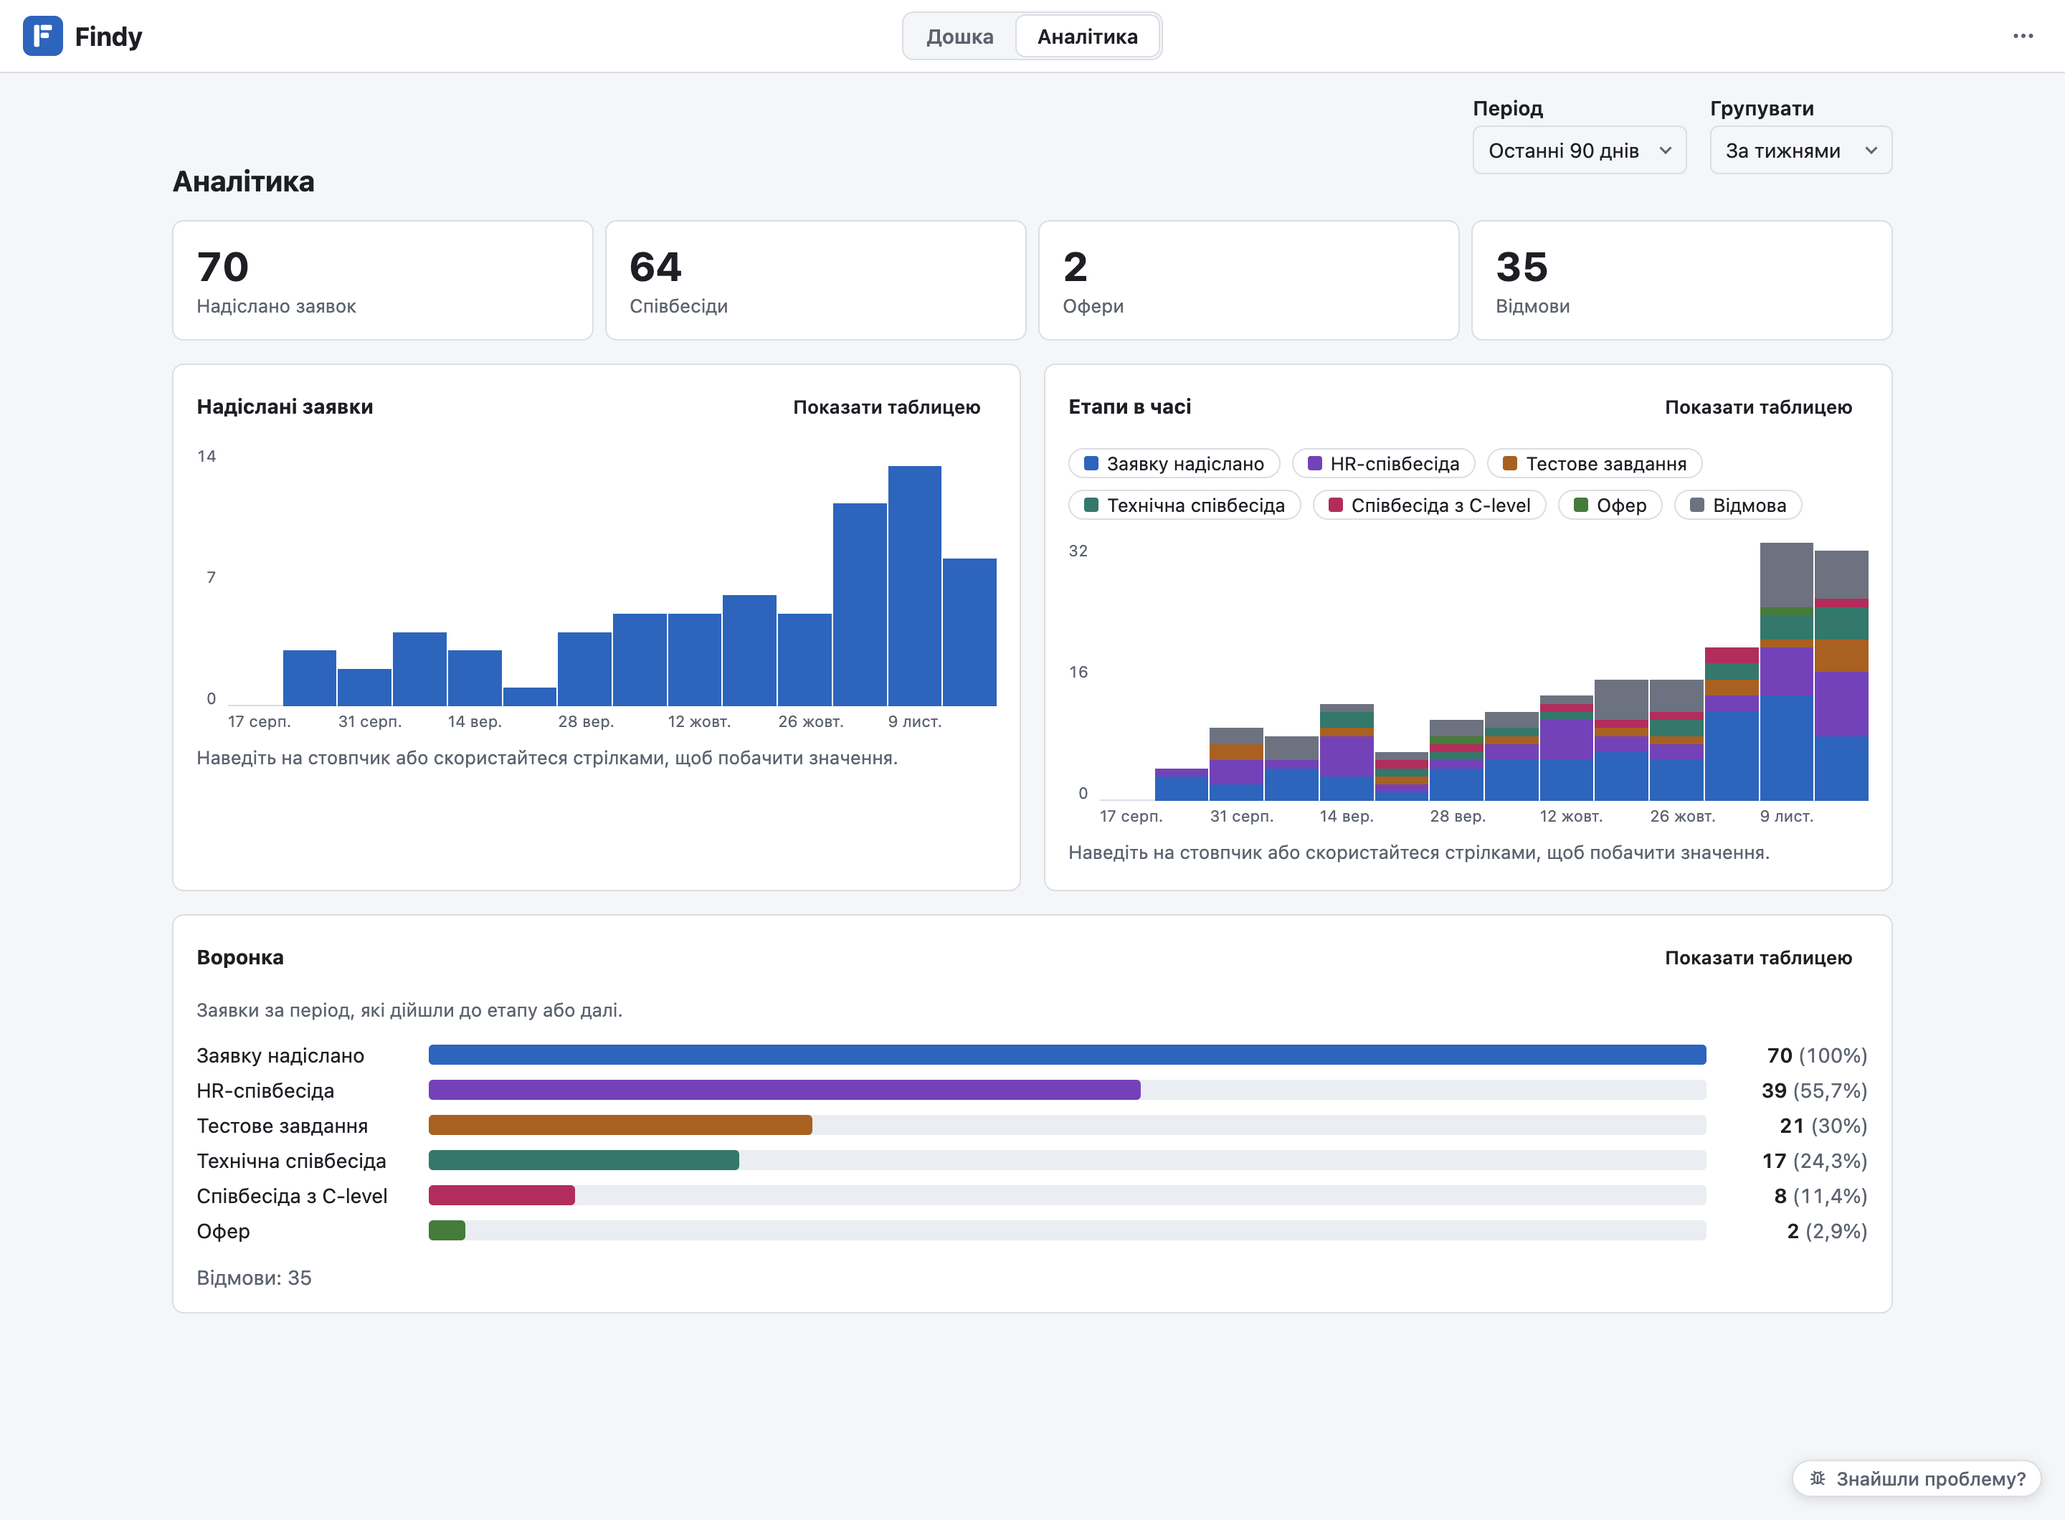
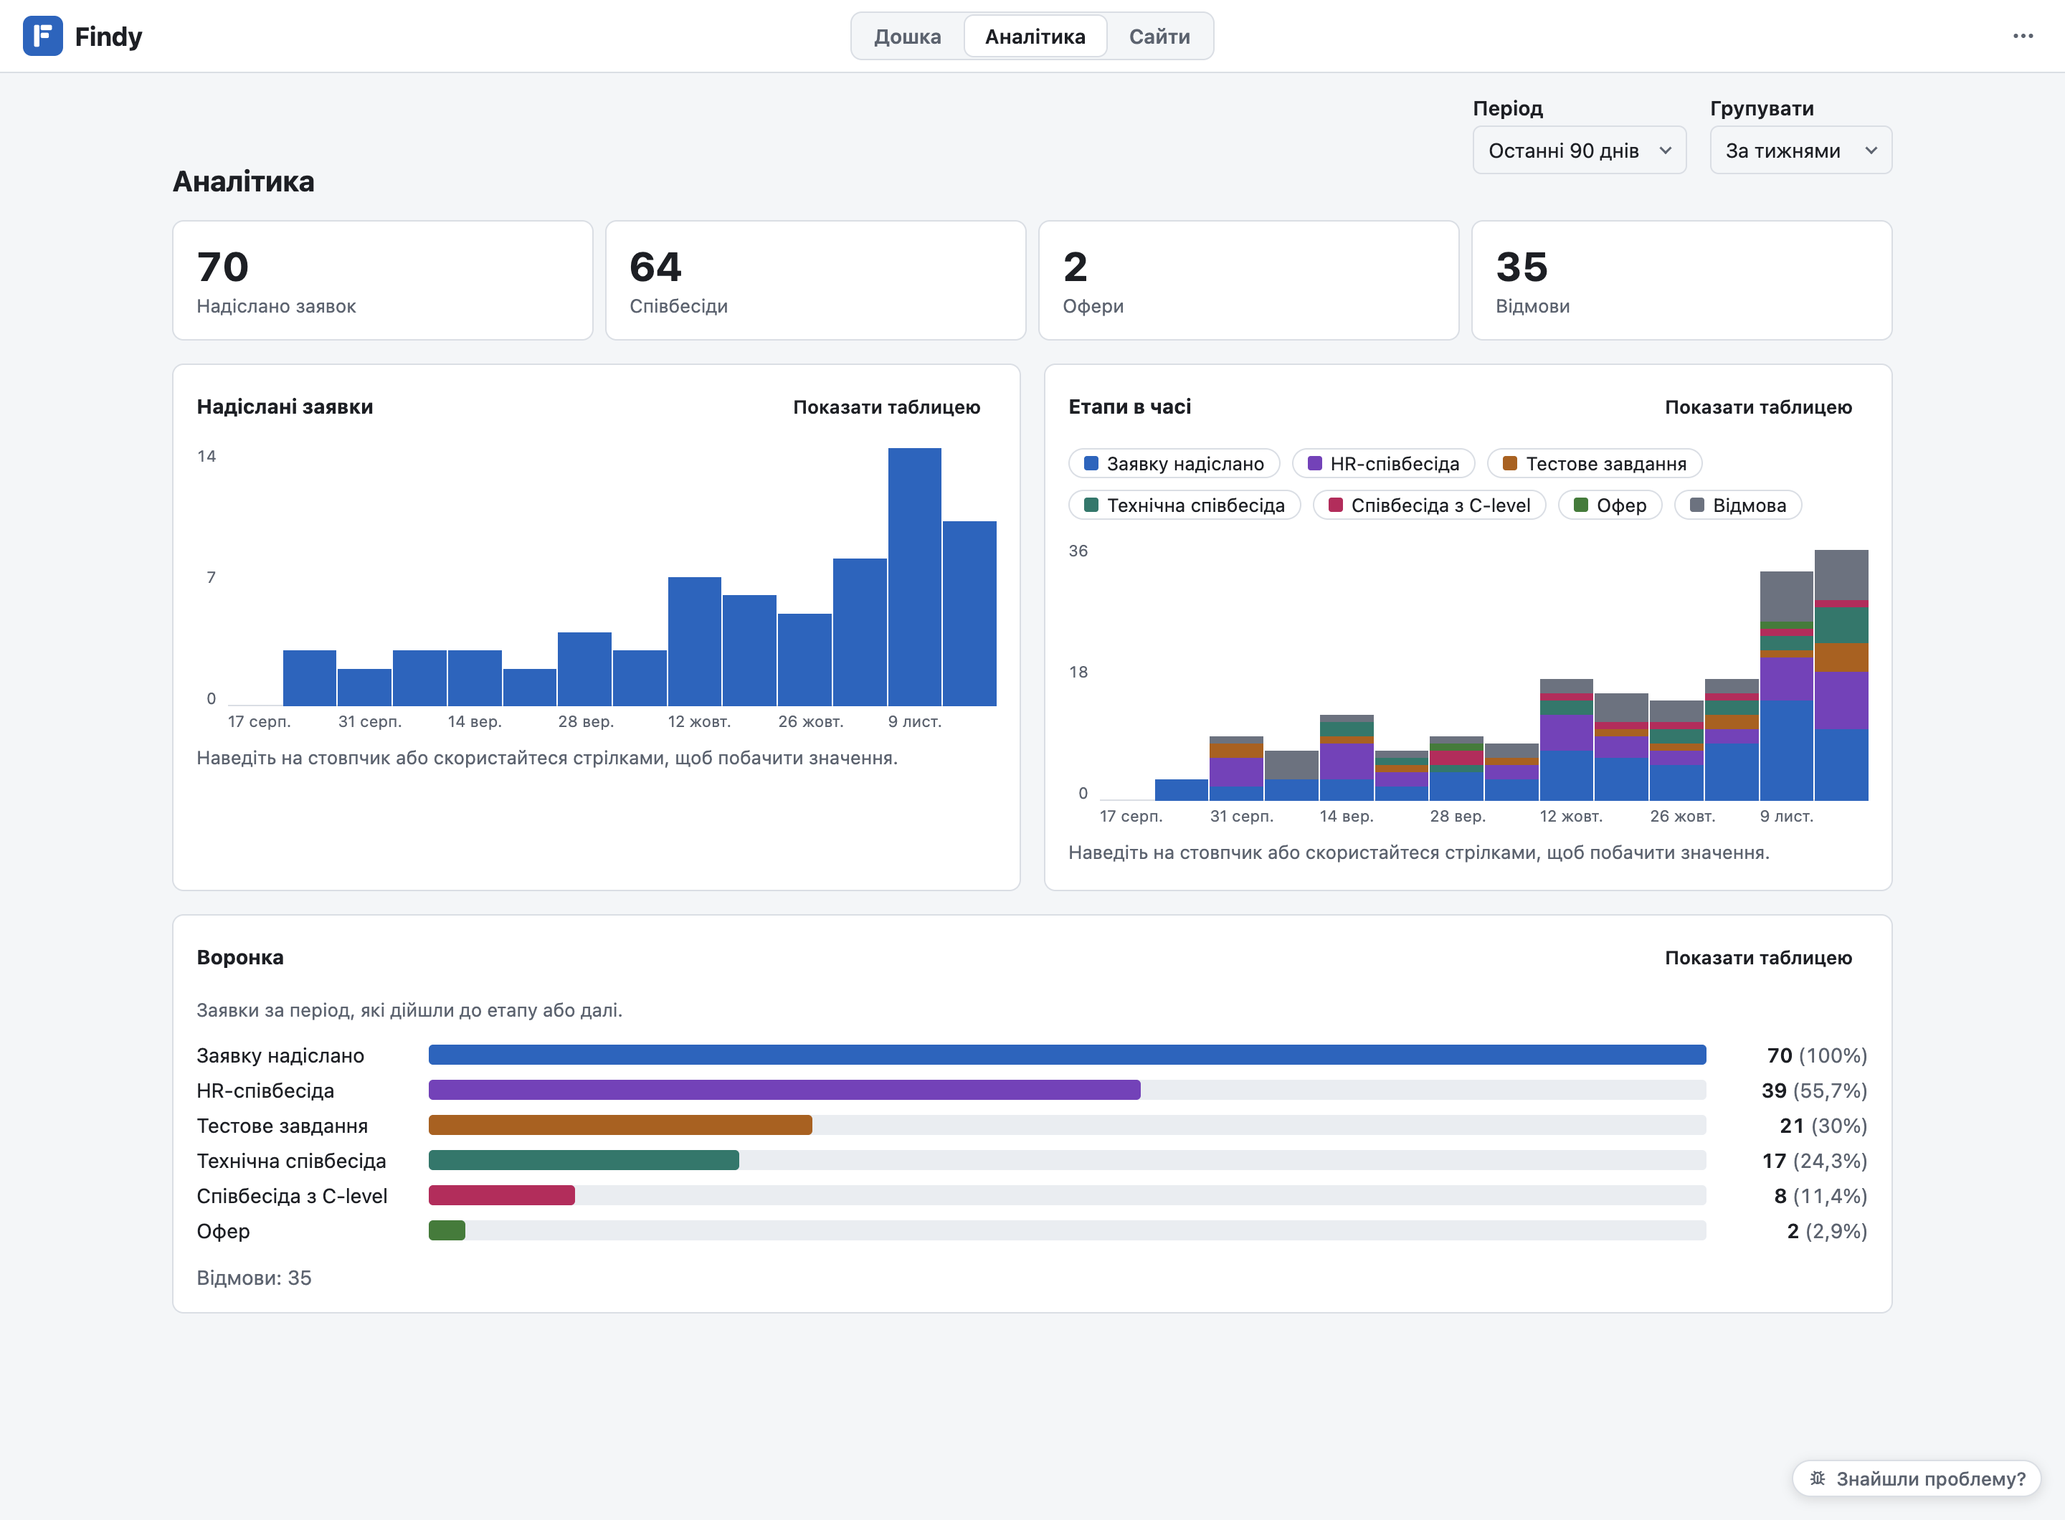
release: 0.4.0 — add from a link, no movement marks, job sites (#30)

diff --git a/e2e/self-tests/readme-screenshots.test.ts b/e2e/self-tests/readme-screenshots.test.ts
@@ -54,7 +54,12 @@ const DATA: Record<'en' | 'uk', Demo[]> = {
       url: 'https://example.com/jobs/3',
       notes: ['Take-home: small kanban app, 3 days.'],
     },
-    { title: 'Frontend Lead', company: 'Example Company 5', stage: 'technical_interview', days: 9 },
+    {
+      title: 'Frontend Lead',
+      company: 'Example Company 5',
+      stage: 'technical_interview',
+      days: 18,
+    },
     {
       title: 'Software Engineer',
       company: 'Example Company 6',
@@ -106,7 +111,7 @@ const DATA: Record<'en' | 'uk', Demo[]> = {
       title: 'Frontend Lead',
       company: 'Компанія-приклад 5',
       stage: 'technical_interview',
-      days: 9,
+      days: 18, // spec 010: shows the "No movement" mark
     },
     {
       title: 'Software Engineer',
@@ -170,6 +175,12 @@ for (const lang of ['en', 'uk'] as const) {
     await page.getByRole('button', { name: new RegExp(`^${DATA[lang][2]!.title}`) }).click()
     await page.getByTestId('details').waitFor()
     await page.screenshot({ path: join(OUT, `details-${lang}.png`) })
+
+    // Spec 011: the Sites tab with a query (icons need the network: letters here)
+    await page.keyboard.press('Escape')
+    await page.getByRole('tab', { name: lang === 'en' ? 'Sites' : 'Сайти' }).click()
+    await page.getByRole('searchbox').last().fill('Frontend Developer')
+    await page.screenshot({ path: join(OUT, `sites-${lang}.png`) })
   })
 }
 

diff --git a/README.uk.md b/README.uk.md
@@ -19,6 +19,8 @@ Findy збирає всі заявки на одній дошці: від від
 
 ![Аналітика: надіслані заявки, етапи в часі, воронка й підсумки](docs/screenshots/analytics-uk.png)
 
+![Сайти вакансій: один пошуковий запит для будь-якого сайту](docs/screenshots/sites-uk.png)
+
 ## Можливості
 
 - **Канбан-дошка пошуку роботи.** Кожна заявка — це картка, а колонки — етапи
@@ -31,7 +33,11 @@ Findy збирає всі заявки на одній дошці: від від
 - **Перетягування карток** між етапами (з клавіатури теж можна).
 - **Нотатки до кожної заявки:** з ким говорили, яку зарплату обговорювали, що далі.
 - **Вакансія в один клік:** картка з посиланням відкриває його в браузері.
+- **Додавання з посилання:** вставте посилання на вакансію, і Findy заповнить посаду
+  й компанію зі сторінки.
 - **Кольори карток:** позначте картку одним із 7 кольорів у її меню **⋯**.
+- **Без руху:** картки, що стоять на етапі довше 14 днів (кількість днів можна змінити),
+  позначені, тож видно, кому варто нагадати про себе.
 - **Панель деталей:** редагування заявки та історія етапів у вигляді таймлайну.
 - **Історія етапів:** на картці видно, скільки часу заявка на поточному етапі.
 - **Аналітика:** скільки заявок ви надсилаєте за день, тиждень чи місяць, скільки було
@@ -39,15 +45,19 @@ Findy збирає всі заявки на одній дошці: від від
   графік можна показати таблицею.
 - **Перевірка оновлень:** **⋯ → Перевірити оновлення…** скаже, коли вийде нова версія.
   Автоматичну перевірку можна ввімкнути в тому ж меню (за замовчуванням вимкнена).
+- **Сайти вакансій:** вкладка **Сайти** з 14 сайтами (Djinni, DOU, Work.ua, LinkedIn,
+  Indeed та інші): введіть запит один раз і відкрийте його на будь-якому сайті одним
+  кліком. Додавайте власні сайти й ховайте непотрібні.
 - Інтерфейс **українською та англійською**, **світла й темна** тема.
 - **Експорт та імпорт CSV:** збережіть усю дошку у файл, який відкривається в будь-якій
   таблиці, або додайте заявки з власної таблиці (**⋯ → Експорт у CSV…**,
   **Імпорт із CSV…**). Імпорт спершу показує підсумок і не змінює наявних карток.
 - **Почати спочатку:** очищення дошки в один крок, перед цим Findy робить резервну копію.
 - **Приватність.** Працює офлайн, без акаунта й без телеметрії. Дані зберігаються
-  в локальній базі SQLite на вашому комп'ютері. Єдиний мережевий запит, який може
-  зробити Findy, — перевірка оновлень, і лише коли ви її запустили чи ввімкнули; вона
-  не передає жодних даних.
+  в локальній базі SQLite на вашому комп'ютері. В інтернет Findy звертається лише на
+  ваше прохання: перевірка оновлень (коли ви її запустили чи ввімкнули), сторінка
+  вакансії, посилання на яку ви вставили, та іконки сайтів вакансій (один раз для
+  кожного). Жоден із цих запитів не передає даних про вас чи вашу дошку.
 - **Windows, macOS і Linux.**
 
 ## Завантаження

diff --git a/README.md b/README.md
@@ -20,6 +20,8 @@ apply until you get an offer.
 
 ![Analytics: applications sent, stages over time, funnel and totals](docs/screenshots/analytics-en.png)
 
+![Job sites: one search query, opened on any job site](docs/screenshots/sites-en.png)
+
 ## Features
 
 - **Kanban board of your job search.** Every application is a card; columns are
@@ -32,7 +34,11 @@ apply until you get an offer.
 - **Drag and drop** cards between stages (keyboard works too).
 - **Notes on every application.** Who you talked to, salary discussed, next steps.
 - **One click to the vacancy.** Cards with a link open it in your browser.
+- **Add from a link.** Paste a vacancy link and Findy fills in the job title and the
+  company from the page.
 - **Card colours.** Mark cards with one of 7 colours from the card's **⋯** menu.
+- **No movement.** Cards that stay in a stage for more than 14 days (you choose the
+  number) are marked, so you know where to follow up.
 - **Details panel.** Edit an application and see its stage history as a timeline.
 - **Stage history.** Each card shows how long it has been in its stage.
 - **Analytics.** See how many applications you send per day, week or month, how many
@@ -43,11 +49,16 @@ apply until you get an offer.
 - **CSV export and import.** Save the whole board to a file that opens in any
   spreadsheet, or add applications from your own table (**⋯ → Export to CSV…**,
   **Import from CSV…**). Import shows a summary first and never changes existing cards.
+- **Job sites.** A **Sites** tab with 14 job sites (Djinni, DOU, Work.ua, LinkedIn,
+  Indeed and more): type your search once and open it on any site in one click. Add
+  your own sites and hide the ones you do not use.
 - **English and Ukrainian** interface, **light and dark** theme.
 - **Start over.** Reset the board in one step; Findy keeps a backup first.
 - **Private by design.** Works offline, no account, no telemetry. Your data lives in a
-  local SQLite database on your computer. The only network request Findy can make is
-  the update check, and only when you start it or turn it on; it sends no data.
+  local SQLite database on your computer. Findy goes online only for what you ask:
+  the update check (when you start it or turn it on), the vacancy page whose link you
+  paste, and the icons of job sites (once each). None of these sends data about you or
+  your board.
 - **Windows, macOS and Linux.**
 
 ## Download

diff --git a/CHANGELOG.md b/CHANGELOG.md
@@ -3,6 +3,26 @@
 All notable changes to Findy. Versions follow [SemVer](https://semver.org/);
 pre-1.0 releases can change behaviour between minor versions.
 
+## [0.4.0] - 2026-11-19
+
+### Add an application from a link
+- Paste a vacancy link into **Add application**: Findy reads that page and fills in the **job title** and the **company**. Check the values and save; nothing is saved before you do. **Fill from link** does the same for a link that you typed.
+- It reads the job data that most job sites publish for search engines and link previews, and the page title and heading. When a page gives nothing (for example, it needs a login, or you are offline), a short message says so and you fill in the fields yourself.
+- Only that one page is read, only when you paste or press the button. No cookies, no logins and no data about you or your board are sent.
+
+### No movement
+- A card that stays in its stage for more than 14 days shows **No movement for N days**, so you know where to follow up. Offer and Rejected are never marked; only a move to another stage resets the count.
+- **⋯ → Stale after…** changes the number of days (3–90).
+
+### Job sites
+- A new **Sites** tab (Cmd/Ctrl+3) with 14 job sites: Djinni, DOU, Work.ua, robota.ua, LinkedIn Jobs, Indeed, Glassdoor, Wellfound, Remote OK, We Work Remotely, Jooble, EuroJobs, StepStone and XING.
+- Type your search once, for example *QA Engineer*: a click on a site opens its search results for it in your browser. The query is kept.
+- Add your own sites, such as a company's careers page; put `{query}` in the address where your search goes. Hide the sites that you do not use.
+- Each site shows its icon. Findy downloads it once from that site, with no data about you, and keeps it, so the tab works offline after that.
+
+### Data
+- The database gets a new version for your job sites. Findy backs it up before the update. **Findy 0.3.0 and older cannot open a database after 0.4.0 has opened it**: update every computer that uses the same data.
+
 ## [0.3.0] - 2026-11-18
 
 ### Card colours

diff --git a/specs/README.md b/specs/README.md
@@ -47,6 +47,6 @@ Rules:
 | 006 | [Update check](006-update-check/spec.md) | Implemented |
 | 007 | [Card colours](007-card-colors/spec.md) | Implemented |
 | 008 | [CSV export and import](008-csv-import-export/spec.md) | Implemented |
-| 009 | [Add an application from a link](009-add-from-link/spec.md) | Implemented |
-| 010 | [Stale applications](010-stale-applications/spec.md) | Implemented |
-| 011 | [Job sites](011-job-sites/spec.md) | Approved |
+| 009 | [Add an application from a link](009-add-from-link/spec.md) | Implemented (0.4.0) |
+| 010 | [Stale applications](010-stale-applications/spec.md) | Implemented (0.4.0) |
+| 011 | [Job sites](011-job-sites/spec.md) | Implemented (0.4.0) |

diff --git a/specs/010-stale-applications/spec.md b/specs/010-stale-applications/spec.md
@@ -1,7 +1,7 @@
 # Feature Spec: Stale applications
 
 - **ID:** 010-stale-applications
-- **Status:** Implemented
+- **Status:** Implemented (0.4.0)
 - **Approved:** 2026-11-19 (owner)
 - **Created:** 2026-11-19
 - **Builds on:** [001-mvp-board](../001-mvp-board/spec.md) (FR-003 time in stage, US-8 search), [002-hidden-columns](../002-hidden-columns/spec.md)

diff --git a/specs/009-add-from-link/spec.md b/specs/009-add-from-link/spec.md
@@ -1,7 +1,7 @@
 # Feature Spec: Add an application from a link
 
 - **ID:** 009-add-from-link
-- **Status:** Implemented
+- **Status:** Implemented (0.4.0)
 - **Approved:** 2026-11-19 (owner)
 - **Created:** 2026-11-19
 - **Builds on:** [001-mvp-board](../001-mvp-board/spec.md) (US-1, FR-010), [003-error-handling](../003-error-handling/spec.md)

diff --git a/specs/011-job-sites/spec.md b/specs/011-job-sites/spec.md
@@ -1,7 +1,7 @@
 # Feature Spec: Job sites
 
 - **ID:** 011-job-sites
-- **Status:** Approved
+- **Status:** Implemented (0.4.0)
 - **Approved:** 2026-11-19 (owner)
 - **Created:** 2026-11-19
 - **Builds on:** [001-mvp-board](../001-mvp-board/spec.md) (FR-015 external links), [005-analytics](../005-analytics/spec.md) (tabs)

diff --git a/specs/011-job-sites/tasks.md b/specs/011-job-sites/tasks.md
@@ -7,7 +7,7 @@ Each task references the requirement(s) it satisfies.
 
 ## Phase 0 — Constitution
 
-- [ ] T000 Amendment §II.8 (#28) merged before Phase 2
+- [x] T000 Amendment §II.8 (#28) merged before Phase 2
 
 ## Phase 1 — Domain
 
